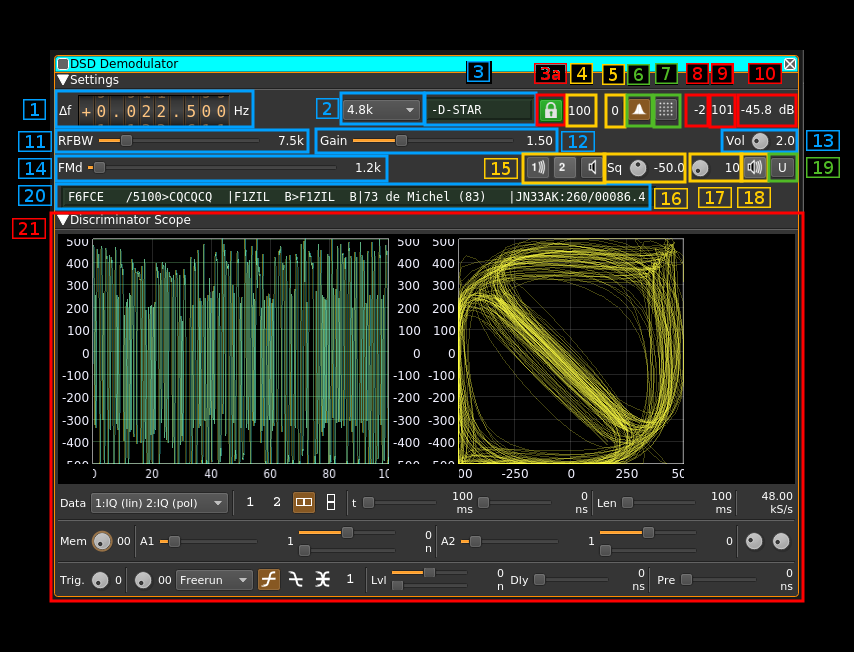
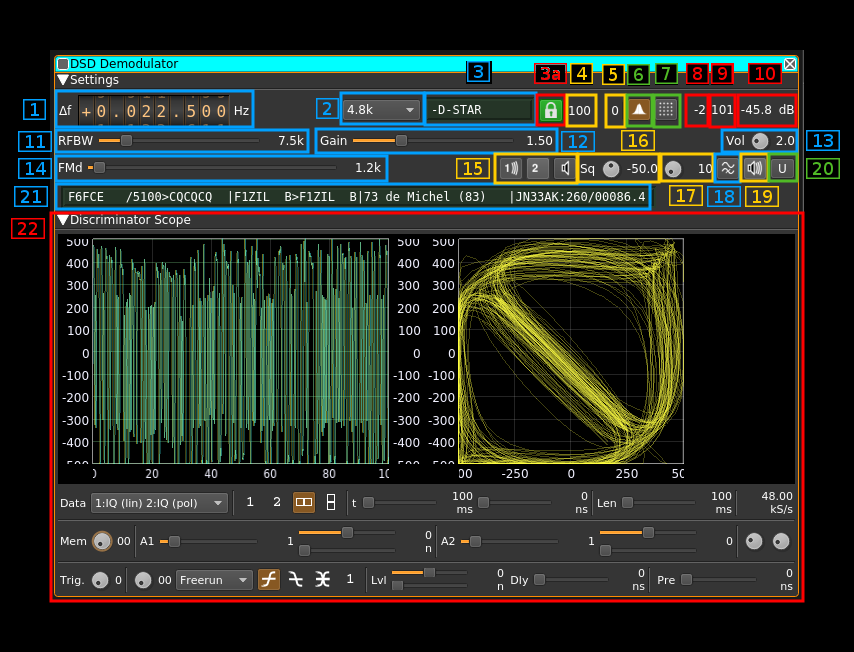
DSD demod: updated documentation

Changed region(s): [[0.5176, 0.184, 0.9133, 0.3374], [0.0, 0.2761, 0.0609, 0.3681], [0.9438, 0.2147, 0.9742, 0.2761]]

diff --git a/plugins/channelrx/demoddsd/readme.md b/plugins/channelrx/demoddsd/readme.md
@@ -175,11 +175,15 @@ The level corresponds to the channel power above which the squelch gate opens.
 
 Number of milliseconds following squelch gate opening after which the signal is actually fed to the decoder. 0 means no delay i.e. immediate feed.
 
-<h3>18: Audio mute and squelch indicator</h3>
+<h3>18: High-pass filter for audio</h3>
+
+Use this switch to toggle high-pass filter on the audio
+
+<h3>19: Audio mute and squelch indicator</h3>
 
 Audio mute toggle button. This button lights in green when the squelch opens.
 
-<h3>19: UDP output</h3>
+<h3>20: UDP output</h3>
 
 Copies audio output to UDP. Output is stereo S16LE samples. Depending on which slots are active the output is the following:
 
@@ -191,57 +195,57 @@ It cannot mix both channels when slot1+2 are active.
 
 UDP address and send port are specified in the basic channel settings. See: [here](https://github.com/f4exb/sdrangel/blob/master/sdrgui/readme.md#6-channels)
 
-<h3>20: Format specific status display</h3>
+<h3>21: Format specific status display</h3>
 
 When the display is active the background turns from the surrounding gray color to dark green. It shows informatory or status messages that are particular to each format.
 
-<h4>20.1: D-Star status display</h4>
+<h4>21.1: D-Star status display</h4>
 
 ![DSD D-Star status](../../../doc/img/DSDdemod_plugin_dstar_status.png)
 
-<h5>20.1.1: Origin (my) and destination (your) callsign</h5>
+<h5>21.1.1: Origin (my) and destination (your) callsign</h5>
 
   - at the left of the `>` sign is the origin callsign ` MY` with the 4 character informative suffix nest to the slash `/`
   - at the right of the `>` sign is the destination callsign `YOUR`. As per Icom standard this is `CQCQCQ` when a call is made to all stations
   - this information is retrieved from the header or the slow data if it can be decoded
 
-<h5>20.1.2: Repeater callsign</h5>
+<h5>21.1.2: Repeater callsign</h5>
 
   - at the left of the `>` sign is the origin repeater or `RPT1`
   - at the right of the `>` sign is the destination repeater or `RPT2`
   - this information is retrieved from the header or the slow data if it can be decoded
 
-<h5>20.1.3: Informative text</h5>
+<h5>21.1.3: Informative text</h5>
 
 When slow data can be decoded this is the 20 character string that is sent in the text frames 
 
-<h5>20.1.4: Geopositional data</h5>
+<h5>21.1.4: Geopositional data</h5>
 
 When a `$$CRC` frame that carries geographical position can be successfully decoded from the slow data the geopositional information is displayed:  
 
    - at the left of the colon `:` is the QTH 6 character locator a.k.a. Maidenhead locator
    - at the right of the colon `:` is the bearing in degrees and distance in kilometers from the location entered in the main window `Preferences\My Position` dialog. The bearing and distance are separated by a slash `/`. 
 
-<h4>20.2: DMR status display</h4>
+<h4>21.2: DMR status display</h4>
 
 ![DSD DMR status](../../../doc/img/DSDdemod_plugin_dmr_status.png)
 
   - Note 1: statuses are polled at ~1s rate and therefore do not reflect values instantaneously. As a consequence some block types that occur during the conversation may not appear.
   - Note 2: status values remain unchanged until a new value is available for the channel or the transmissions stops then all values of both channels are cleared 
 
-<h5>20.2.1: Station role</h5>
+<h5>21.2.1: Station role</h5>
 
   - `BS`: base station
   - `MS`: mobile station
   - `NA`: not applicable or could not be determined (you should not see this normally)
 
-<h5>20.2.2: TDMA slot #0 status</h5>
+<h5>21.2.2: TDMA slot #0 status</h5>
 
 For mobile stations on an inbound channel there is no channel identification (no CACH) so information goes there by default.
 
-<h5>20.2.3: TDMA slot #1 status</h5>
+<h5>21.2.3: TDMA slot #1 status</h5>
 
-<h5>20.2.4: Channel status and color code</h5>
+<h5>21.2.4: Channel status and color code</h5>
 
 This applies to base stations and mobile stations in continuous mode that is transmissions including the CACH sequences.
 
@@ -256,7 +260,7 @@ This applies to base stations and mobile stations in continuous mode that is tra
     - The color code from 0 to 15 (4 bits)
     - `--`: The color code could not be decoded and information is missing
   
-<h5>20.2.5: Slot type</h5>
+<h5>21.2.5: Slot type</h5>
 
 This is either:
 
@@ -274,7 +278,7 @@ This is either:
    - `RES`: reserved data block 
    - `UNK`: unknown data type or could not be decoded
 
-<h5>20.2.6: Addressing information</h5>
+<h5>21.2.6: Addressing information</h5>
 
 String is in the form: `02223297>G00000222`
 
@@ -284,11 +288,11 @@ String is in the form: `02223297>G00000222`
     - `U`: unit (individual) address
   - Next on the right is the target address (24 bits) as defined in the DMR ETSI standard
 
-<h4>20.3: dPMR status display</h4>
+<h4>21.3: dPMR status display</h4>
 
 ![DSD dPMR status](../../../doc/img/DSDdemod_plugin_dpmr_status.png)
 
-<h5>20.3.1: dPMR frame tyoe</h5>
+<h5>21.3.1: dPMR frame tyoe</h5>
 
   - `--`: undetermined
   - `HD`: Header of FS1 type
@@ -300,23 +304,23 @@ String is in the form: `02223297>G00000222`
   - `XS`: Extended search: looking for a new payload frame when out of sequence
   - `EN`: End frame
   
-<h5>20.3.2: Colour code</h5>
+<h5>21.3.2: Colour code</h5>
 
 Colour code in decimal (12 bits)
 
-<h5>20.3.3: Own ID</h5>
+<h5>21.3.3: Own ID</h5>
 
 Sender's identification code in decimal (24 bits)
 
-<h5>20.3.4: Called ID</h5>
+<h5>21.3.4: Called ID</h5>
 
 Called party's identification code in decimal (24 bits)
 
-<h4>20.4: Yaesu System Fusion (YSF) status display</h4>
+<h4>21.4: Yaesu System Fusion (YSF) status display</h4>
 
 ![DSD YSF status](../../../doc/img/DSDdemod_plugin_ysf_status.png)
 
-<h5>20.4.1: FICH data</h5>
+<h5>21.4.1: FICH data</h5>
 
 This displays a summary of FICH (Frame Identification CHannel) block data. From left to right:
 
@@ -349,23 +353,23 @@ This displays a summary of FICH (Frame Identification CHannel) block data. From 
       - `L`: local path (as inthe example)
     - last three characters are the YSF squelch code (0..127) or dashes `---` if the YSF squelch is not active
     
-<h5>20.4.2: Origin and destination callsigns</h5>
+<h5>21.4.2: Origin and destination callsigns</h5>
 
   - at the left of the `>` sign is the origin callsign
   - at the right of the `>` sign is the destination callsign. It is filled with stars `*` when call is made to all stations (similar to the CQCQCQ in D-Star)
 
-<h5>20.4.3: Origin and destination repeaters callsigns</h5>
+<h5>21.4.3: Origin and destination repeaters callsigns</h5>
 
   - at the left of the `>` sign is the origin repeater callsign
   - at the right of the `>` sign is the destination repeater callsign. 
 
-<h5>20.4.4: Originator radio ID</h5>
+<h5>21.4.4: Originator radio ID</h5>
 
 This is the unique character string assigned to the device by the manufacturer.
 
-<h3>21: Discriminator output scope display</h3>
+<h3>22: Discriminator output scope display</h3>
 
-<h4>21.1 Transitions constellation display</h4>
+<h4>22.1 Transitions constellation display</h4>
 
 This is selected by the transition constellation or symbol synchronization signal toggle (see 7)
 
@@ -381,18 +385,18 @@ This allows the visualization of symbol transitions which depend on the type of 
 
 ![DSD scope](../../../doc/img/DSDdemod_plugin_scope.png)
 
-<h5>21.1.1: Setting the display</h5>
+<h5>22.1.1: Setting the display</h5>
 
   - On the combo box you should choose IQ (lin) for the primary display and IQ (pol) for secondary display
   - On the display buttons you should choose the side by side display
 
 On the same line you can choose any trace length. If it is too short the constellation points will not appear clearly and if it is too long the polar figure will be too dense. Usually 100ms give good results.
 
-<h5>21.1.2: IQ linear display</h5>
+<h5>22.1.2: IQ linear display</h5>
 
 The yellow trace (I) is the direct trace and the blue trace (Q) is the delayed trace. This can show how symbols differentiate between each other in a sort of eye diagram.
 
-<h5>21.1.3: IQ polar display</h5>
+<h5>22.1.3: IQ polar display</h5>
 
 This shows the constellation of transition points. You should adjust the frequency shift to center the figure and the maximum deviation and/or discriminator gain to contain the figure within the +/-0.4 square. +/- 0.1 to +/- 0.3 usually give the best results.
 
@@ -428,50 +432,47 @@ There are 16 possible points corresponding to the 16 possible transitions betwee
 
 Because not all transitions are possible similarly to the 2-FSK case pointer moves from the lower left side of the diagonal to the upper right side are not possible.
 
-<h5>21.1.4: I gain</h5>
+<h5>22.1.4: I gain</h5>
 
 You should set the slider to a unity (1) span (+/- 0.5) with no offset. This corresponds to full range in optimal conditions (100%). You can set the slider fully to the left (2) for a +/- 1.0 spn if you don't exactly match these conditions.
 
-<h5>21.1.5: Q gain</h5>
+<h5>22.1.5: Q gain</h5>
 
 You should set the slider to a unity (1) span (+/- 0.5) with no offset. This corresponds to full range in optimal conditions (100%). You can set the slider fully to the left (2) for a +/- 1.0 spn if you don't exactly match these conditions.
 
-<h5>21.1.6: Trigger settings</h5>
+<h5>22.1.6: Trigger settings</h5>
 
 You can leave the trigger free running or set it to I linear with a 0 threshold.
 
-<h4>21.2: Symbol synchronization display</h4>
+<h4>22.2: Symbol synchronization display</h4>
 
 This is selected by the transition constellation or symbol synchronization signal toggle (see 7)
 
 ![DSD scope](../../../doc/img/DSDdemod_plugin_scope2.png)
 
-<h5>21.2.1: IQ linear display</h5>
+<h5>22.2.1: IQ linear display</h5>
 
 The I trace (yellow) is the discriminator signal and the Q trace (blue) is the symbol synchronization monitor trace that goes to the estimated maximum discriminator signal level when a zero crossing in the symbol synchronization control signal is detected and goes to mid position ((max - min) / 2) of the discriminator signal when a symbol period starts.
 
 The symbol synchronization control signal is obtained by squaring the discriminator signal and passing it through a narrow second order bandpass filter centered on the symbol rate. Its zero crossing should occur close to the first fourth of a symbol period therefore when synchronization is ideal the Q trace (blue) should go down to mid position in the first fourth of the symbol period.
 
-<h5>21.2.2: Setting the display</h5>
+<h5>22.2.2: Setting the display</h5>
 
   - On the combo box you should choose IQ (lin) for the primary display and IQ (pol) for secondary display
   - On the display buttons you should choose the first display (1)
 
-<h5>21.2.3: Timing settings</h5>
+<h5>22.2.3: Timing settings</h5>
 
 You can choose any trace length with the third slider from the left however 100 ms will give you the best view. You may stretch further the display by reducing the full length to 20 ms or less using the first slider. You can move this 20 ms window across the 100 ms trace with the middle slider.
 
-<h5>21.2.4: I gain</h5>
+<h5>22.2.4: I gain</h5>
 
 You should set the slider to a unity (1) span (+/- 0.5) with no offset. This corresponds to full range in optimal conditions (100%). You can set the slider fully to the left (2) for a +/- 1.0 spn if you don't exactly match these conditions.
 
-<h5>21.2.5: Q gain</h5>
+<h5>22.2.5: Q gain</h5>
 
 You should set the slider to a unity (1) span (+/- 0.5) with no offset. This corresponds to full range in optimal conditions (100%). You can set the slider fully to the left (2) for a +/- 1.0 spn if you don't exactly match these conditions.
 
-<h5>21.2.6: Trigger settings</h5>
+<h5>22.2.6: Trigger settings</h5>
 
 You can leave the trigger free running or set it to I linear with a 0 threshold.
-
-
- 
